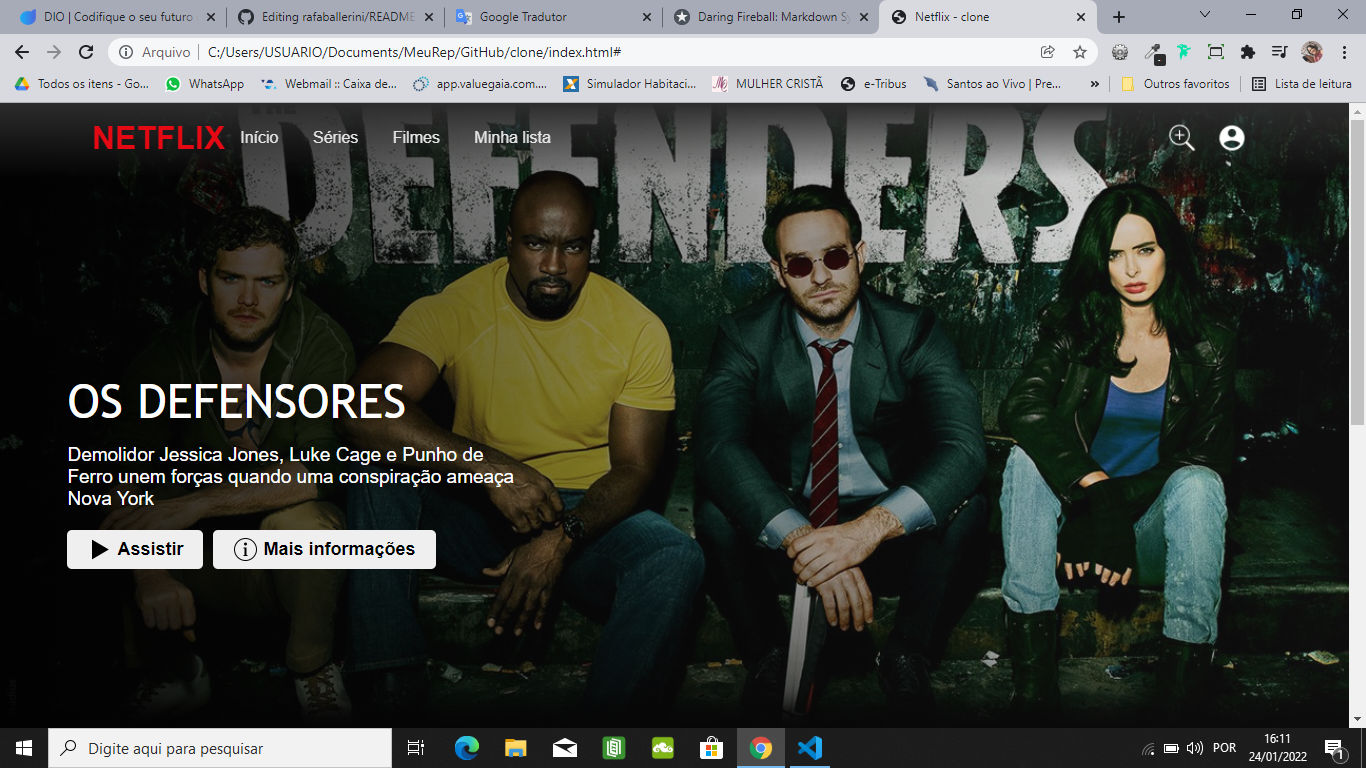
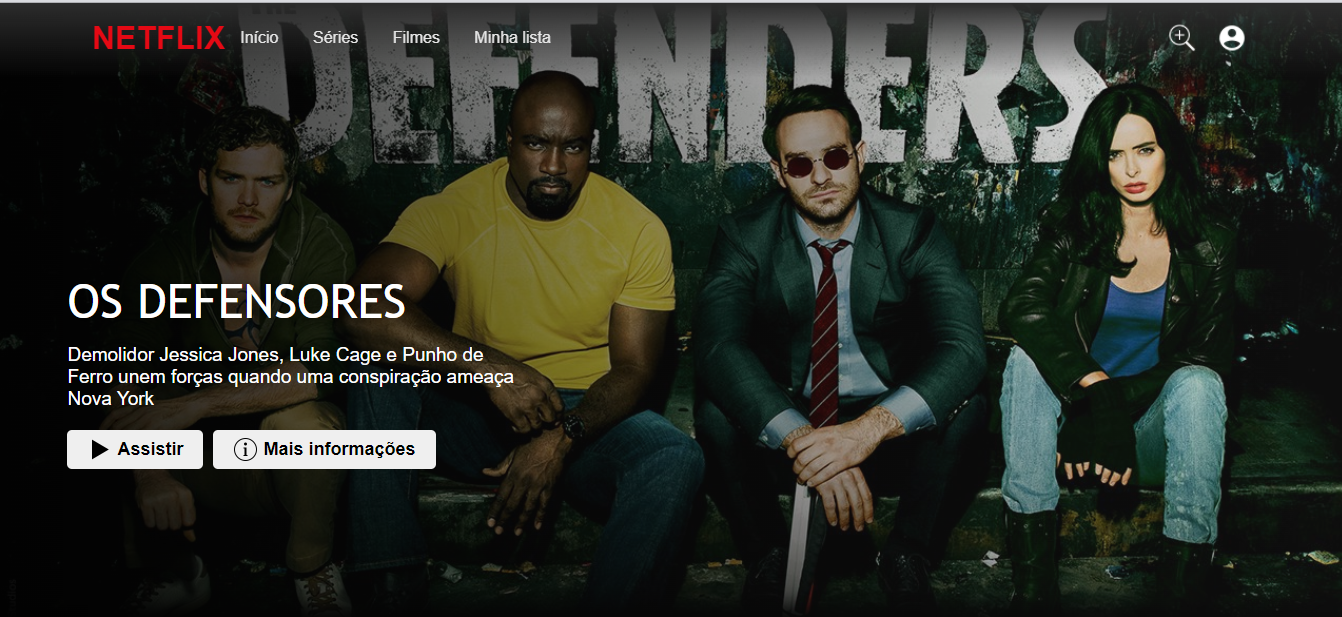
Atualizando imagem

diff --git a/README.md b/README.md
@@ -1,4 +1,4 @@
 # Netflix-clone
 Um clone da Netflix com Html, Css, JS e um pouco de jQuery. O meu primeiro projeto usando jQuery
 
-<img align="center" alt="Rafa-pic" height="200" style="border-radius:10px;" src="assets/img/print-site.png">
+<img alt="Rafa-pic" height="400" style="border-radius:10px; align: center;" src="assets/img/print-site.png">
